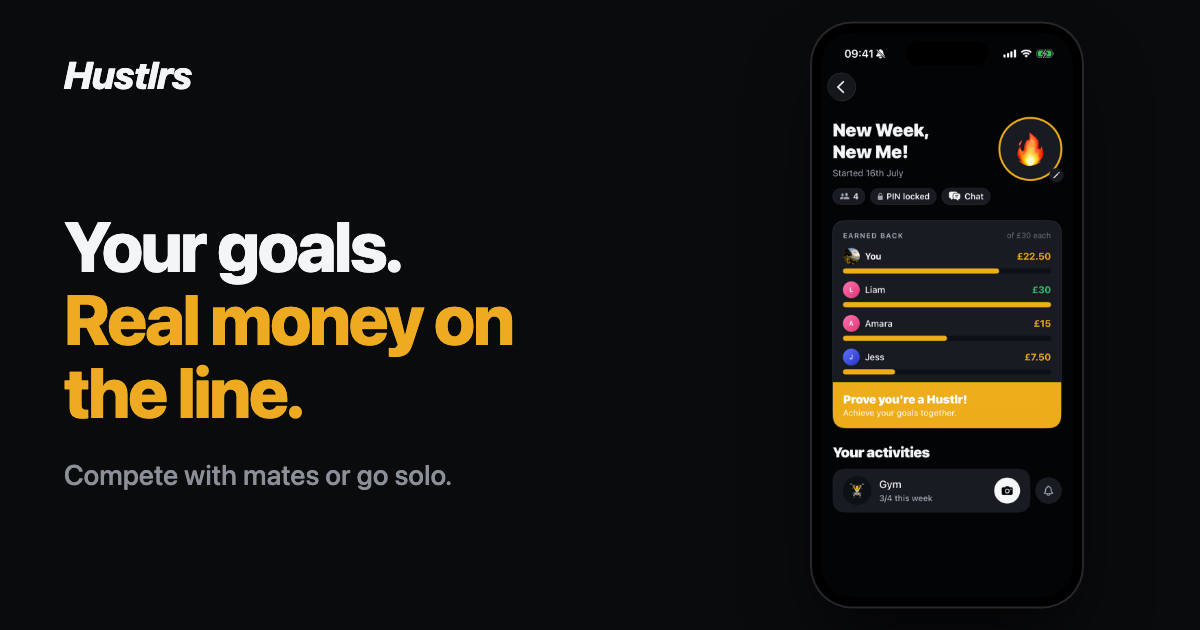
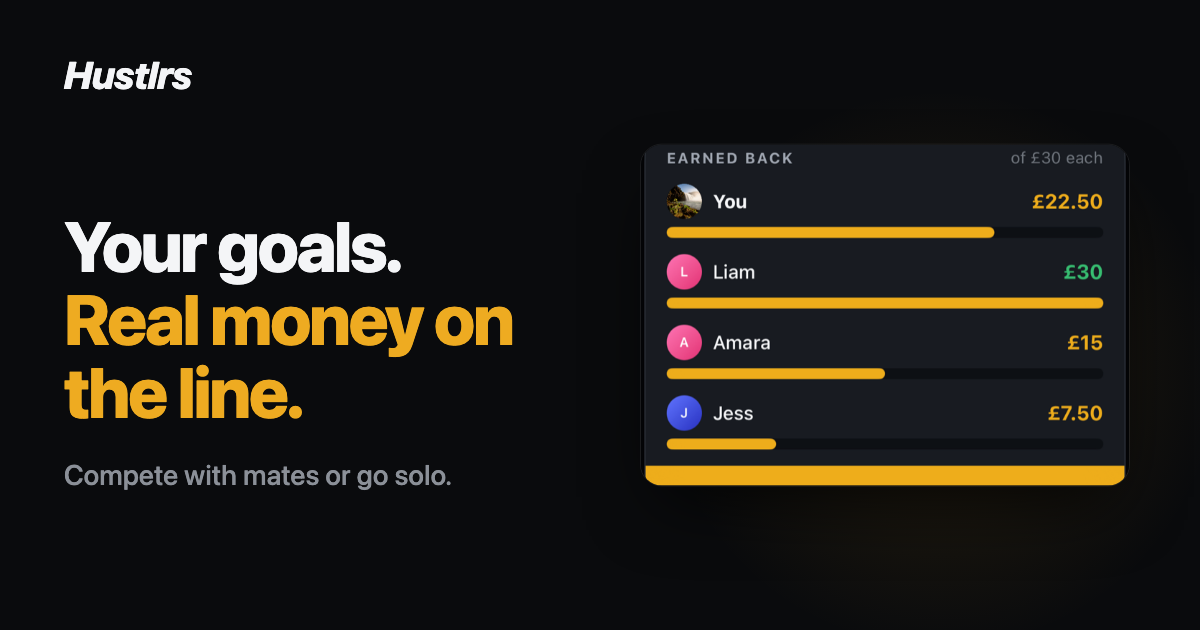
Share card: crop to the EARNED BACK bars instead of the whole phone
At share-card size the full phone just read as 'a phone'. Cropped to the
members + earned-back money bars, which communicates the product (real
money, with mates, keep what you complete) in a glance. Same headline and
layout; bumped og-image cache-buster to v12.

Changed region(s): [[0.5242, 0.181, 0.9558, 0.8143], [0.8325, 0.0603, 0.8942, 0.0905], [0.7092, 0.0603, 0.74, 0.0905]]

diff --git a/index.html b/index.html
@@ -9,14 +9,14 @@
   <meta property="og:description" content="Put real money on your goals. Show up, prove it by location, and keep the share you complete. Only what you miss is forfeited. Solo or with friends.">
   <meta property="og:url" content="https://hustlrs.co">
   <meta property="og:type" content="website">
-  <meta property="og:image" content="https://hustlrs.co/img/og-image.png?v=11">
+  <meta property="og:image" content="https://hustlrs.co/img/og-image.png?v=12">
   <meta property="og:image:width" content="1200">
   <meta property="og:image:height" content="630">
   <meta property="og:image:alt" content="Hustlrs — real money on your goals">
   <meta name="twitter:card" content="summary_large_image">
   <meta name="twitter:title" content="Hustlrs | Prove it. Keep it.">
   <meta name="twitter:description" content="Put real money on your goals. Show up, prove it by location, and keep the share you complete. Only what you miss is forfeited. Solo or with friends.">
-  <meta name="twitter:image" content="https://hustlrs.co/img/og-image.png?v=11">
+  <meta name="twitter:image" content="https://hustlrs.co/img/og-image.png?v=12">
   <link rel="icon" href="/favicon.ico?v=4" sizes="any">
   <link rel="icon" type="image/png" sizes="32x32" href="/img/favicon-32.png?v=2">
   <link rel="apple-touch-icon" href="/img/apple-touch-icon.png?v=2">
